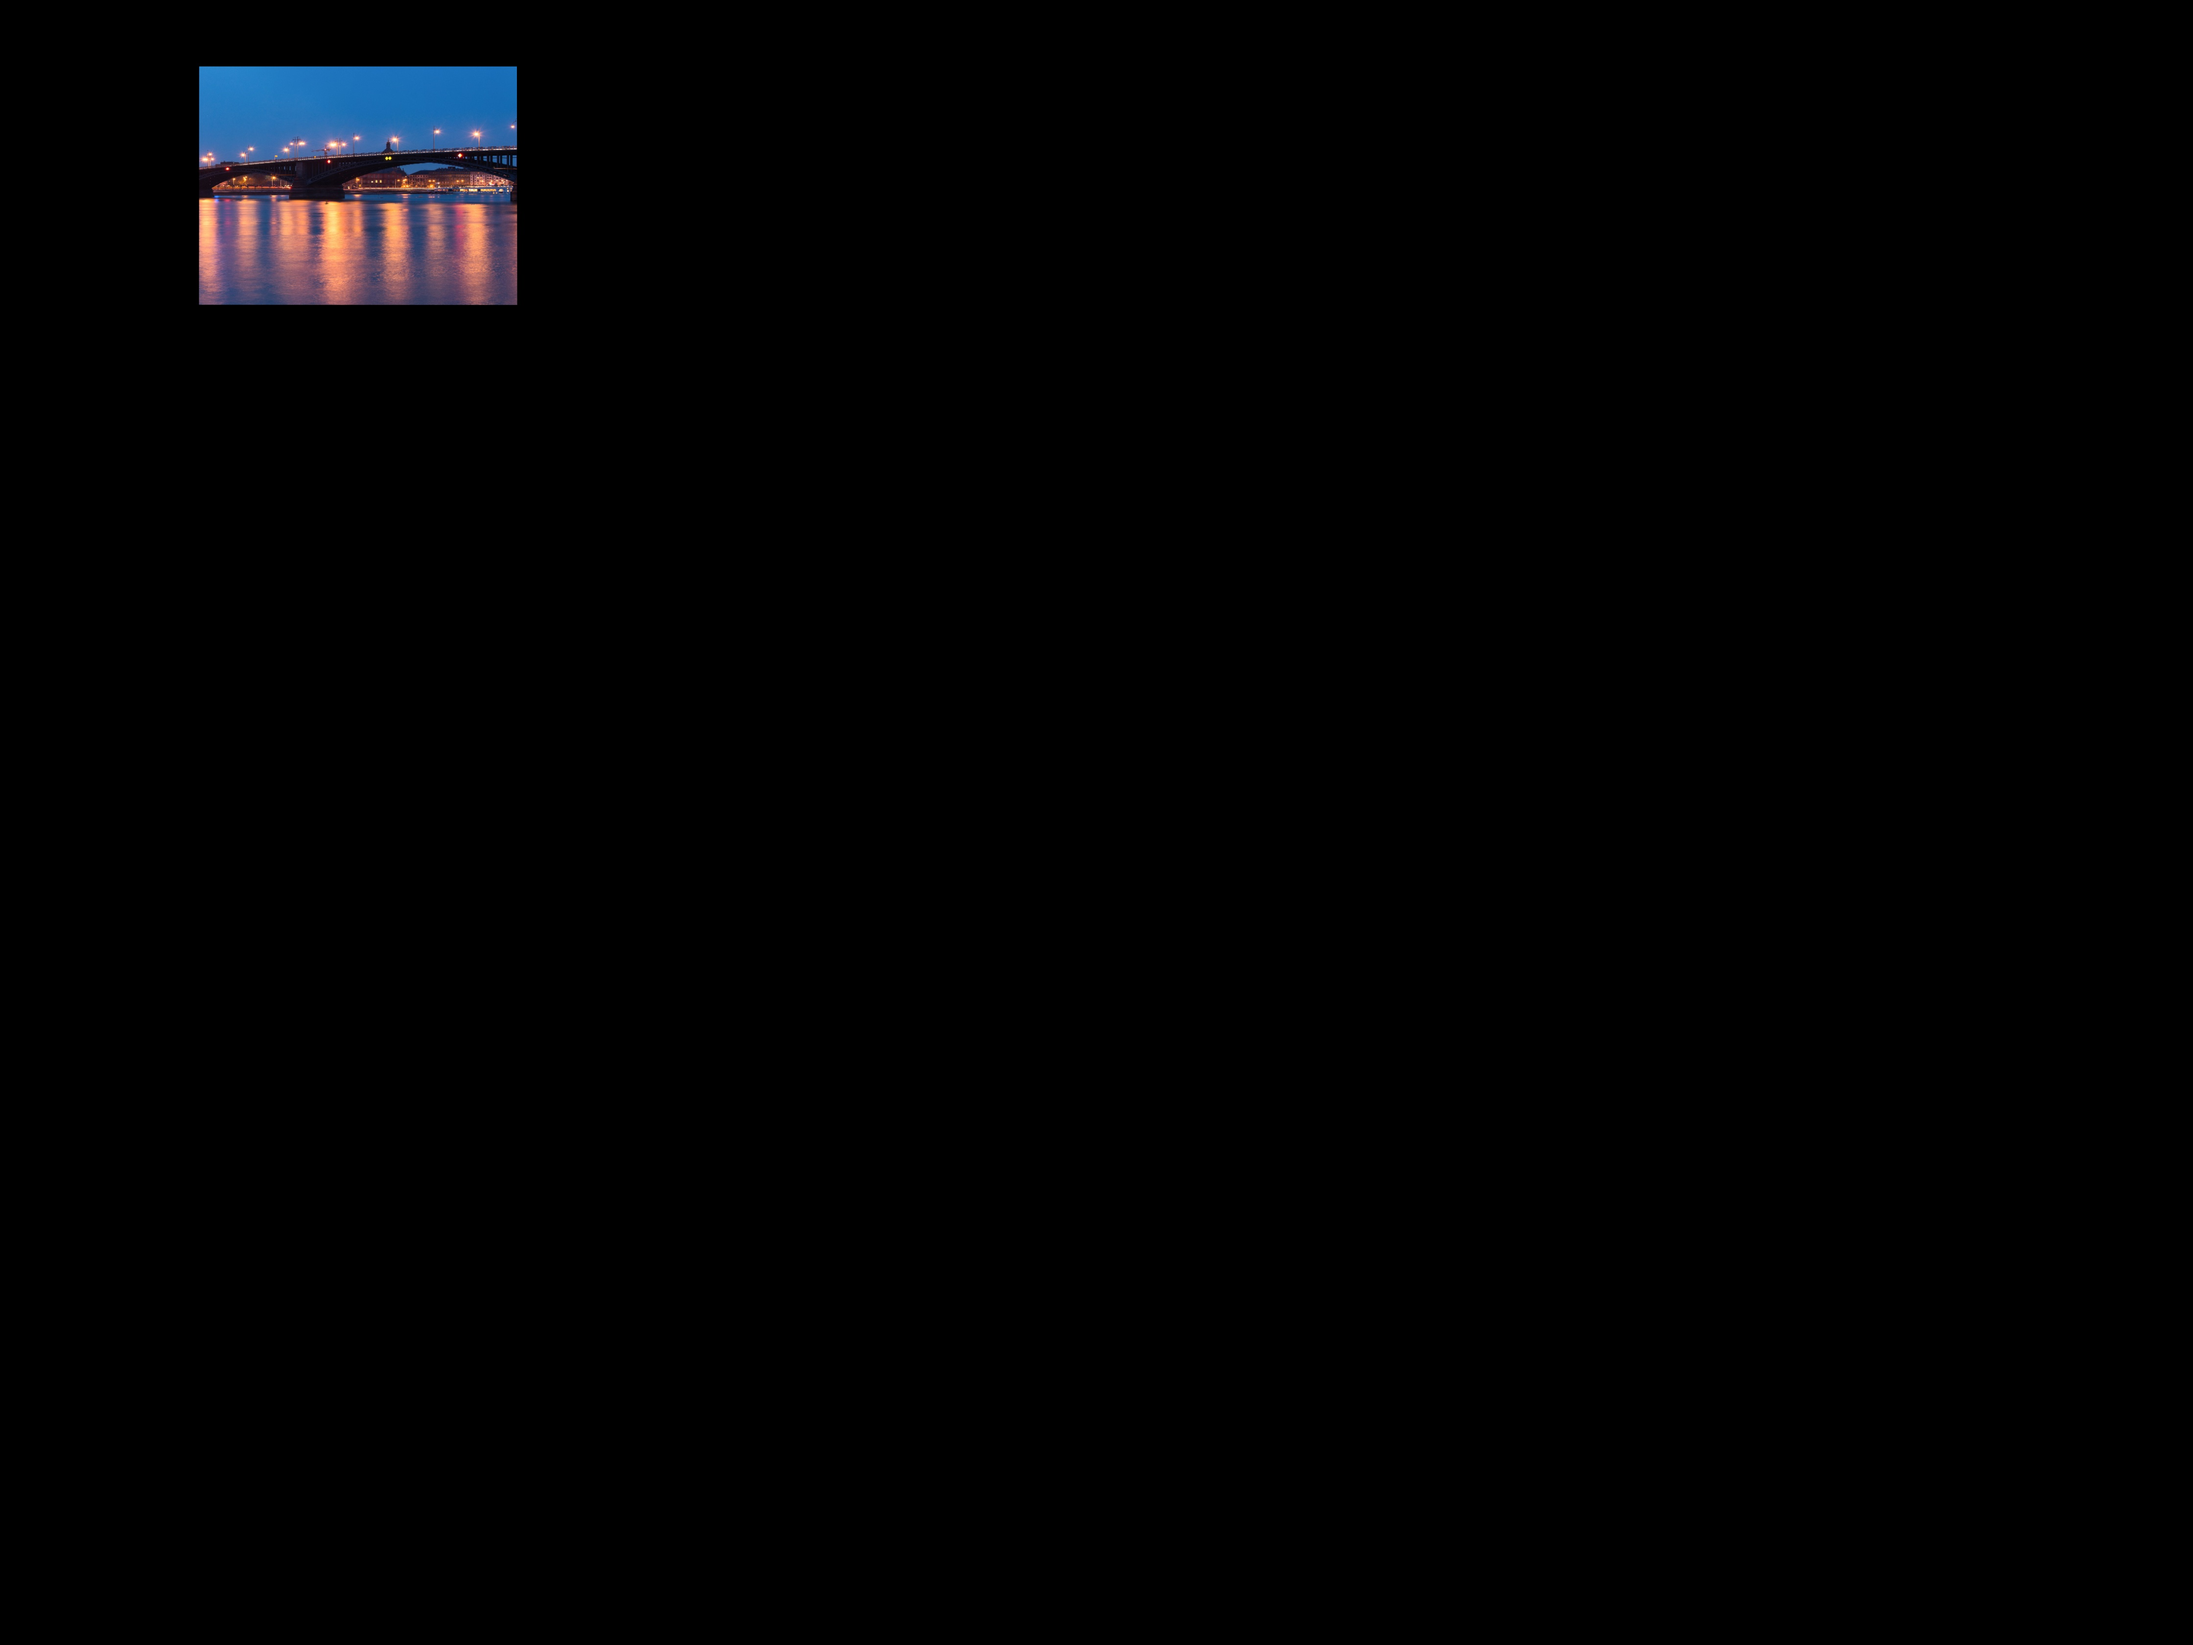
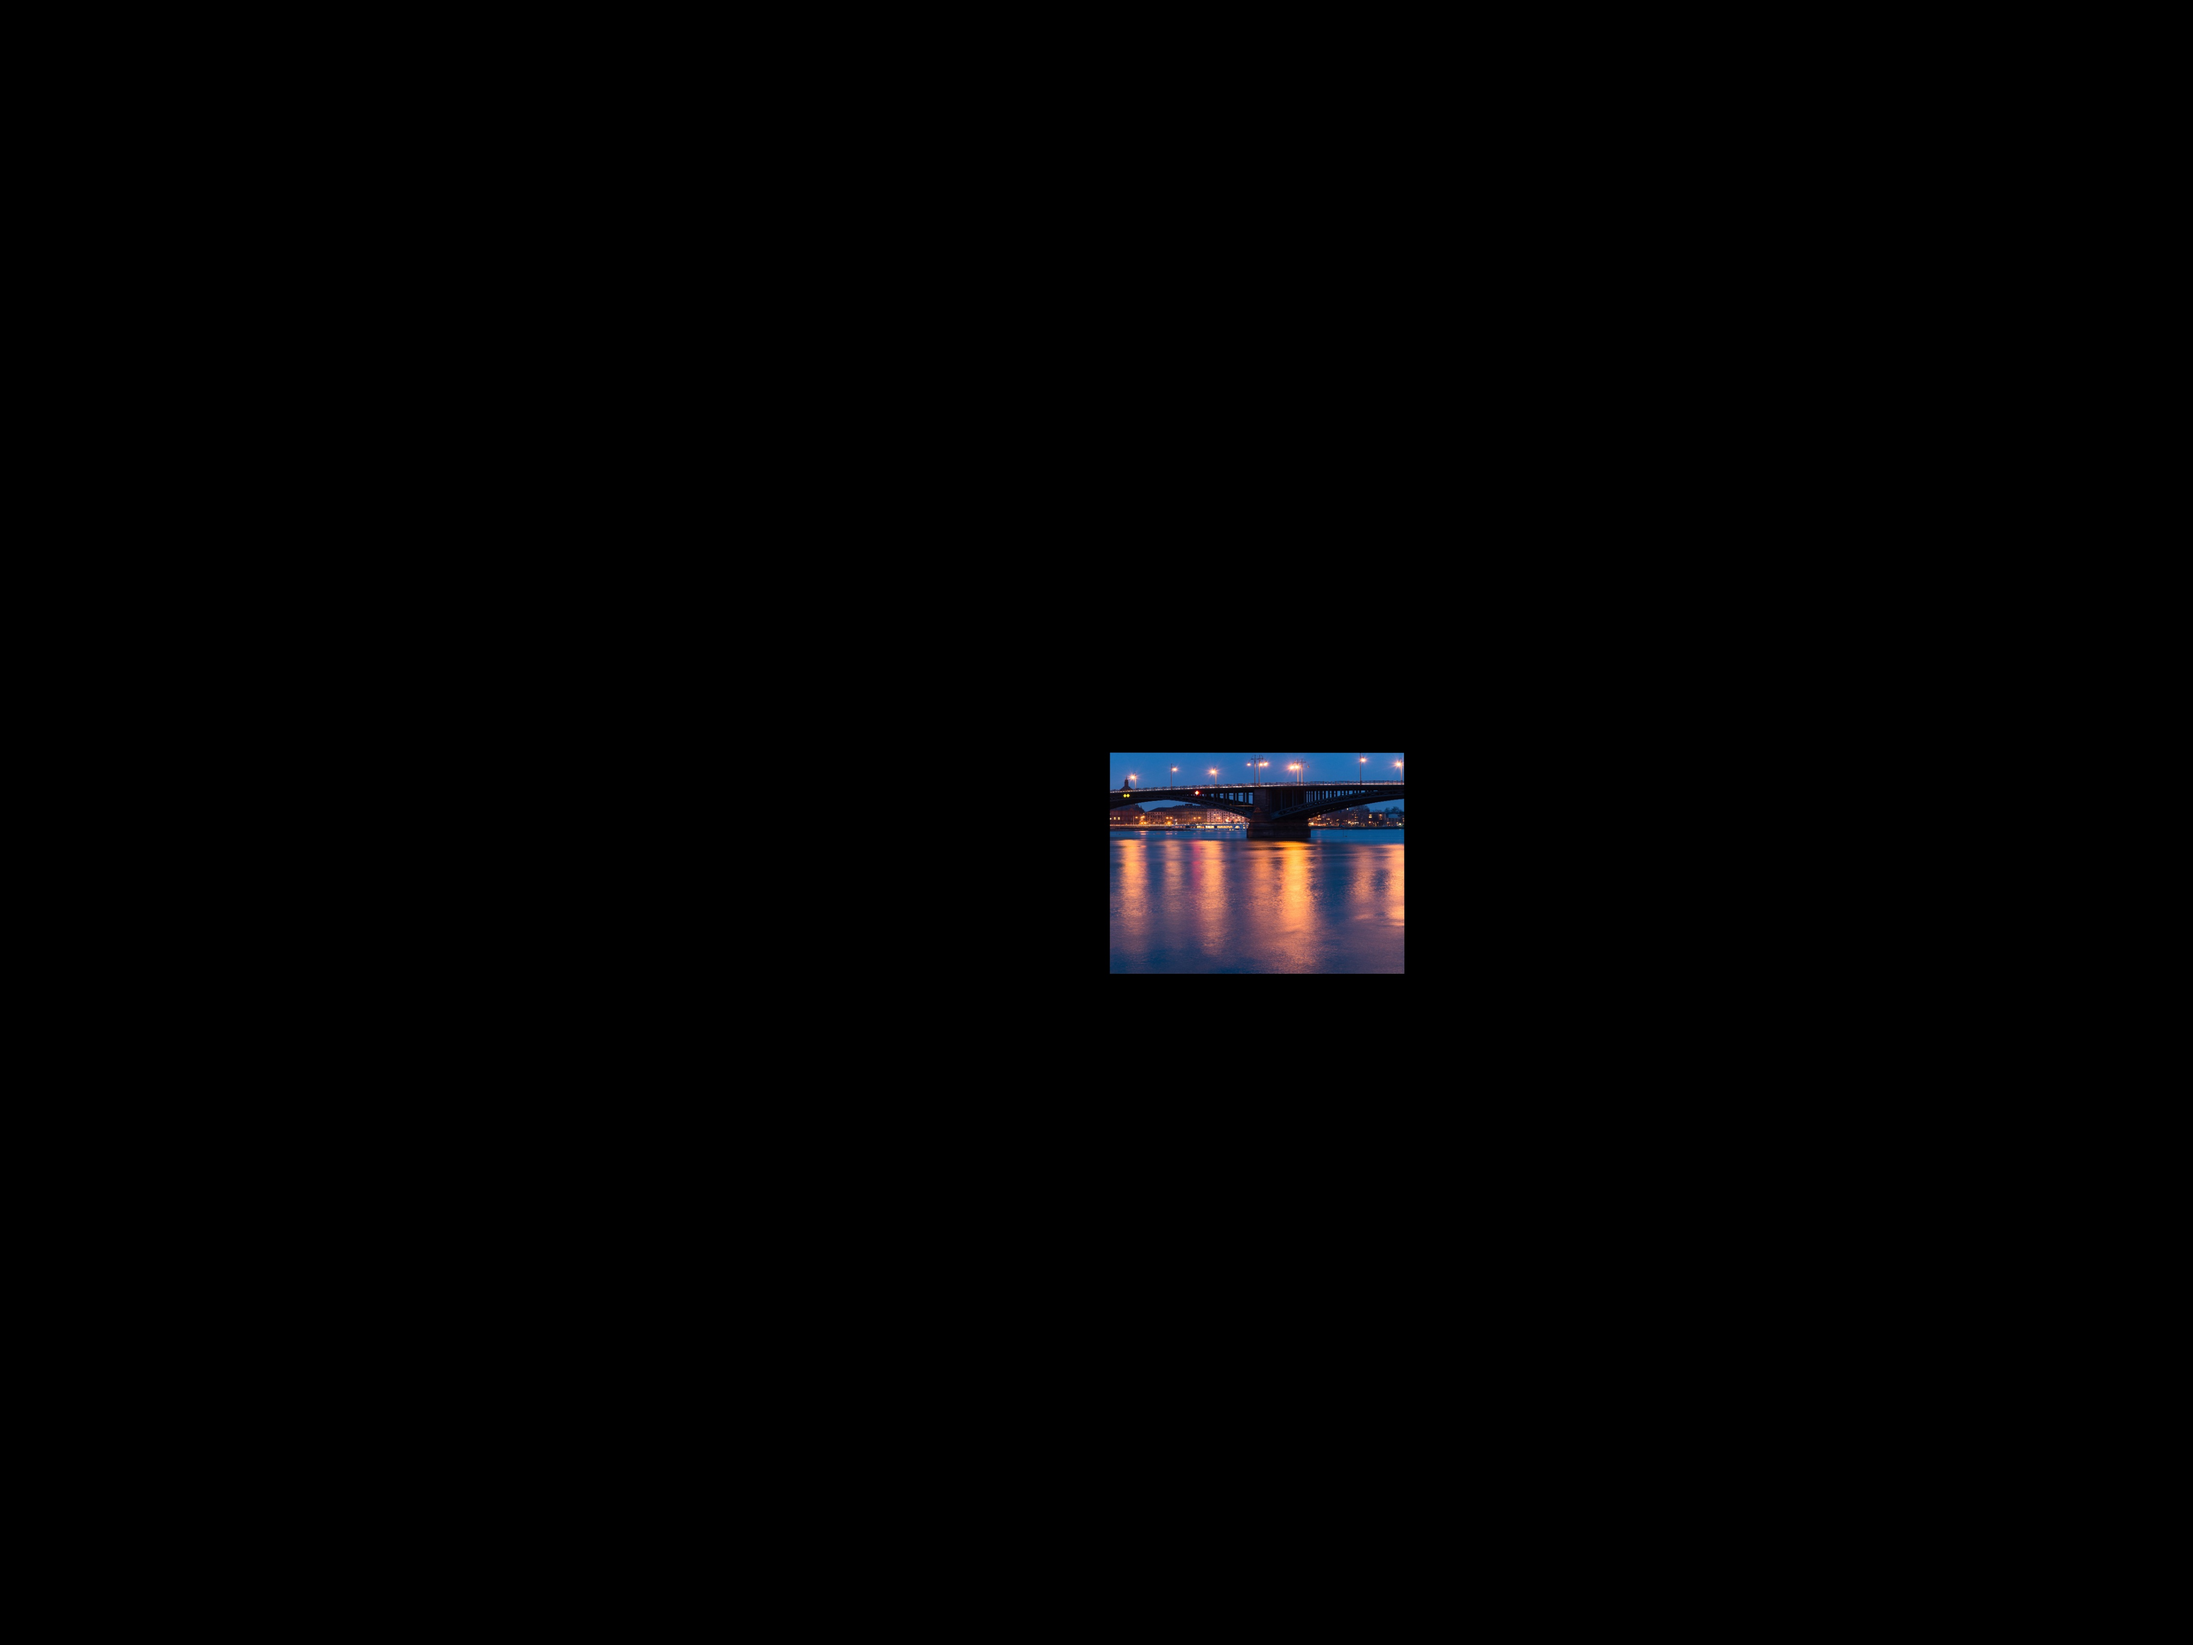
commit before new year, to organize better result images

Changed region(s): [[0.5, 0.4375, 0.6562, 0.5938], [0.0938, 0.0312, 0.25, 0.1875]]

diff --git a/test_loftr.py b/test_loftr.py
@@ -14,7 +14,7 @@ matcher = LoFTR(config=default_cfg)
 matcher.load_state_dict(torch.load("weights/outdoor_ds.ckpt")['state_dict'])
 matcher = matcher.eval()
 
-relativePathFolder, outputSavePath, startImageIdx = getPathToImages(2)
+relativePathFolder, outputSavePath, startImageIdx = getPathToImages(5)
 
 
 # Storing H in the following way:
@@ -63,7 +63,7 @@ with torch.no_grad():
     while(len(imagesToBeStichedIdxArray) != 0):
         imagesToBeStichedIdxArray_len = len(imagesToBeStichedIdxArray)
         print("\n**********\n")
-        print("new iteration")
+        print("searching new correspondace\n")
         
         # choosing the best image to be stiched, the one with more corresondances
         # with a tree node
@@ -99,17 +99,14 @@ with torch.no_grad():
             print("no images with enough correspondances, breaking iter")
             break
         else:
-            print("Found correspondance from ", chosenSourceImg_idx , " to ", chosenTargetImg_idx)
-            print("NUmber of matches ", len(chosenSourceImg_matches))
+            print("Found correspondance from chosenSourceImg_idx", chosenSourceImg_idx , " to chosenTargetImg_idx", chosenTargetImg_idx)
+            print("Number of matches ", len(chosenSourceImg_matches))
 
             # transformation matrix which move image to be stiched in target image
             h, status = cv2.findHomography(chosenSourceImg_matches, chosenTargetImg_matches, cv2.RANSAC, maxIters = 50)
             tupleToSave = (chosenTargetImg_idx, chosenSourceImg_idx, h)
             homographyMatrixStorage.append(tupleToSave)
             imagesToBeStichedIdxArray.remove(chosenSourceImg_idx)
-
-            print("chosenSourceImg_idx ", chosenSourceImg_idx)
-            print("chosenTargetImg_idx ", chosenTargetImg_idx)
             
             # attach node to the right one  
             for node in PreOrderIter(treeHead):
@@ -119,32 +116,26 @@ with torch.no_grad():
         
             nodeToLink = Node(name=str(chosenSourceImg_idx), imageIdx=chosenSourceImg_idx, H=h, parent=nodeToAttachTo)
 
-            print("printing tree")
+            print("\nprinting tree")
             for pre, fill, node in RenderTree(treeHead):
                 print("%s%s" % (pre, node.name))    
 
-            print("number of iterations still to perform ", len(imagesToBeStichedIdxArray))
+            print("number of image to still to find target ", len(imagesToBeStichedIdxArray),"\n")
            
 
-# printing tree
-for pre, fill, node in RenderTree(treeHead):
-    print("%s%s" % (pre, node.name))
-
 # Building the mosaice as a compositio of homography matrices 
+print("Building the mosaice")
 
 top_bottom_shift = int(len(images_col)*480)
 left_right_shift = int(len(images_col)*640)
-print("shifts ", top_bottom_shift, left_right_shift)
 mosaice = images_col[startImageIdx]
 base_img_augm = cv2.copyMakeBorder(mosaice, top_bottom_shift, top_bottom_shift, left_right_shift, left_right_shift, cv2.BORDER_CONSTANT, None, 0)
 
 
 resultIdx = 0
 for node in PreOrderIter(treeHead):
-
-    print(node.name)
     if node.parent is not None:
-        print("stiching ", node.name)
+        print("stiching image idx", node.name)
         sourceImg = images_col[node.imageIdx]
         h = node.H
 
@@ -154,47 +145,35 @@ for node in PreOrderIter(treeHead):
             c = c.parent
             h = np.matmul(c.H, h)
 
-        print("h ", h)
-        changedSign = False
+        
+        # to prevent the warped image to be placed outside the image limits,
+        # the additional translation to center the warped image in the center as the starting one,
+        # is applied at priori
+        H_t = np.float32([[1,0,left_right_shift],[0,1,top_bottom_shift],[0,0,1]])
+        h = np.matmul(H_t, h)
+
+        # changedSign = False
         # if h[0,2] < 0  or h[1,2]:
-        #     h[0,1] = -h[0,1]
-        #     h[0,2] = -h[0,2]
-        #     changedSign = True
+        #      h[0,1] = -h[0,1]
+        #      h[0,2] = -h[0,2]
+        #      changedSign = True
 
 
         img_warped = cv2.warpPerspective(sourceImg, h, (base_img_augm.shape[1], base_img_augm.shape[0]))
         cv2.imwrite(str(outputSavePath + "/loftr/img_warped_" + str(resultIdx) + ".jpg"), img_warped)
         
-        if changedSign:
-            M = np.float32([[1,0,left_right_shift - h[0,1]],[0,1,top_bottom_shift - h[0,2]]])
-        else:
-            M = np.float32([[1,0,left_right_shift],[0,1,top_bottom_shift]])
-        img_shifted = cv2.warpAffine(img_warped, M,(base_img_augm.shape[1], base_img_augm.shape[0]))
-        cv2.imwrite(str(outputSavePath + "/loftr/img_shifted_" + str(resultIdx) + ".jpg"), img_shifted)
+        # if changedSign:
+        #     M = np.float32([[1,0,left_right_shift - h[0,1]],[0,1,top_bottom_shift - h[0,2]]])
+        # else:
+        #     M = np.float32([[1,0,left_right_shift],[0,1,top_bottom_shift]])
+        # img_shifted = cv2.warpAffine(img_warped, M,(base_img_augm.shape[1], base_img_augm.shape[0]))
+        # cv2.imwrite(str(outputSavePath + "/loftr/img_shifted_" + str(resultIdx) + ".jpg"), img_shifted)
 
-        I_blended = blending(base_img_augm, img_shifted, True)
+        I_blended = blending(base_img_augm, img_warped, True, outputSavePath)
 
         cv2.imwrite(str(outputSavePath + "/loftr/img_blended_" + str(resultIdx) + ".jpg"), I_blended)
         base_img_augm = I_blended
         resultIdx+=1
 
 trimmed = trim_black_countour(I_blended)
-cv2.imwrite( str("".join([outputSavePath, "/loftr/final_result.jpg"])), trimmed)
-
-
-# arena tree
-# 4
-# ├── 8
-# │   ├── 0
-# │   │   └── 2
-# │   │       └── 5
-# │   └── 6
-# │       └── 7
-# │           └── 1
-# │               └── 11
-# │                   └── 3
-# └── 13
-#     ├── 12
-#     └── 9
-#         ├── 10
-#         └── 14
+cv2.imwrite( str("".join([outputSavePath, "/loftr_final_result.jpg"])), trimmed)

diff --git a/functionsFile.py b/functionsFile.py
@@ -19,12 +19,12 @@ def getPathToImages(datasetIndex):
     elif datasetIndex == 2:
         relativePathFolder = 'images/big_house/source_images/'
         outputSavePath = 'images/big_house/'
-        startImgIndex = 0
+        startImgIndex = 1
         
     elif datasetIndex == 3:
         relativePathFolder = 'images/bridge/source_images/'
         outputSavePath = 'images/bridge/'
-        startImgIndex = 0
+        startImgIndex = 1
     
     elif datasetIndex == 4:
         relativePathFolder = 'images/building_site/source_images/'
@@ -121,16 +121,53 @@ def trim_black_countour(image):
     return image[min_y:max_y, min_x:max_x,:]
 
 # Compose the mosaice from 2 images using color adjust 
-def blending(I1, I2, blendingOn):
+def blending(I1, I2, blendingOn, outputSavePath):
     '''
     WEIGHTED BLENDING:
     I_blended = (I1 * w1 + I2 * w2)/(w1 + w2)
     I1 = ref_img, I2 = warped_img
     Link: https://www.youtube.com/watch?v=D9rAOAL12SY
     '''
-
+   
     # STITCHING THE TWO IMAGES
     if blendingOn:
+        gray1 = cv2.cvtColor(I1, cv2.COLOR_BGR2GRAY)
+        # cv2.imwrite(str(outputSavePath + "/loftr/gray_" + str(1) + ".jpg"), gray1)
+        _,thresh1 = cv2.threshold(gray1, 0, 255, 0)
+        # cv2.imwrite(str(outputSavePath + "/loftr/thresh_" + str(1) + ".jpg"), thresh1)
+        cnts1, _ = cv2.findContours(thresh1, cv2.RETR_LIST, cv2.CHAIN_APPROX_SIMPLE)[-2:]
+
+        gray2 = cv2.cvtColor(I2, cv2.COLOR_BGR2GRAY)
+        # cv2.imwrite(str(outputSavePath + "/loftr/gray_" + str(2) + ".jpg"), gray2)
+        _,thresh2 = cv2.threshold(gray2, 0, 255, 0)
+        # cv2.imwrite(str(outputSavePath + "/loftr/thresh_" + str(2) + ".jpg"), thresh2)
+        cnts2,_ = cv2.findContours(thresh2, cv2.RETR_LIST, cv2.CHAIN_APPROX_SIMPLE)[-2:]
+
+        for c in cnts1:
+            x1,y1,w1,h1 = cv2.boundingRect(c)
+
+        for c in cnts2:
+            x2,y2,w2,h2 = cv2.boundingRect(c)
+
+        leftMargin = x1 if x1 < x2 else x2
+        toptMargin = y1 if y1 < y2 else y2
+        rightMargin = x1+w1 if x1+w1 > x2+w2 else x2+w2
+        bottomMargin = y1+h1 if y1+h1 > y2+h2 else y2+h2
+
+
+        addToLeft = leftMargin
+        addToTop = toptMargin
+        addToBottom = I1.shape[0]-bottomMargin
+        addToRight = I1.shape[1]-rightMargin
+        
+        subImage1 = I1[toptMargin:bottomMargin,leftMargin:rightMargin]
+        subImage2 = I2[toptMargin:bottomMargin,leftMargin:rightMargin]
+        
+        # cv2.imwrite(str(outputSavePath + "/loftr/subimage_" + str(1) + ".jpg"), subImage1)
+        # cv2.imwrite(str(outputSavePath + "/loftr/subimage_" + str(2) + ".jpg"), subImage2)
+
+        I1 = subImage1
+        I2 = subImage2
         w1 = distance_transform_edt(I1) # This command correspond to the bwdist() in MATLAB
         w1 = np.divide(w1, np.max(w1))
         w2 = distance_transform_edt(I2)
@@ -138,8 +175,10 @@ def blending(I1, I2, blendingOn):
         I_blended = cv2.add(np.multiply(I1, w1), np.multiply(I2, w2))
         w_tot = w1 + w2
         I_blended = np.divide(I_blended, w_tot, out=np.zeros_like(I_blended), where=w_tot != 0).astype("uint8")
+        I_blended = cv2.copyMakeBorder(I_blended, addToTop, addToBottom, addToLeft, addToRight, cv2.BORDER_CONSTANT, None, 0)
     else:
         I_blended = cv2.add(I1,I2)        
+        
     return I_blended
 
 def getMatches(descr_1, descr_2):

diff --git a/test_bb.py b/test_bb.py
@@ -1,0 +1,19 @@
+import cv2
+import numpy as np
+
+image = cv2.imread('shapes.png')
+original = cv2.imread('shapes.png')
+
+gray = cv2.cvtColor(image, cv2.COLOR_BGR2GRAY)
+thresh = cv2.threshold(gray, 0, 255, cv2.THRESH_BINARY_INV + cv2.THRESH_OTSU)[1]
+
+ROI_number = 0
+cnts = cv2.findContours(thresh, cv2.RETR_EXTERNAL, cv2.CHAIN_APPROX_SIMPLE)
+cnts = cnts[0] if len(cnts) == 2 else cnts[1]
+for c in cnts:
+    x,y,w,h = cv2.boundingRect(c)
+    cv2.rectangle(image, (x, y), (x + w, y + h), (0,0,255), 2)
+
+cv2.imshow('image', image)
+cv2.imshow('Thresh',thresh)
+cv2.waitKey()
